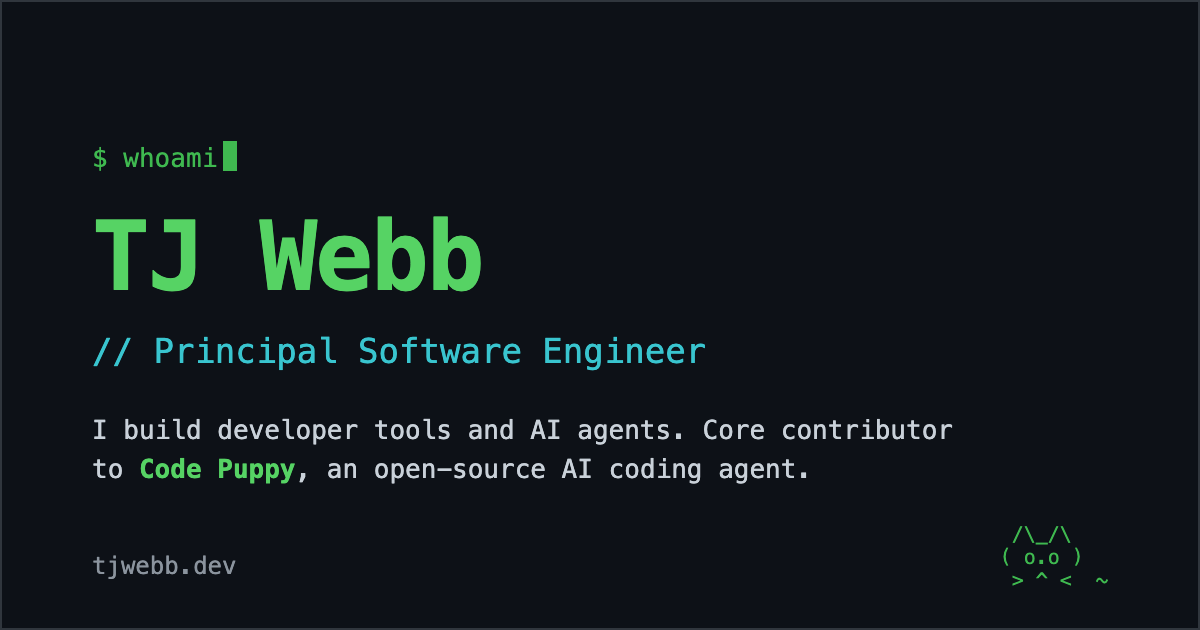
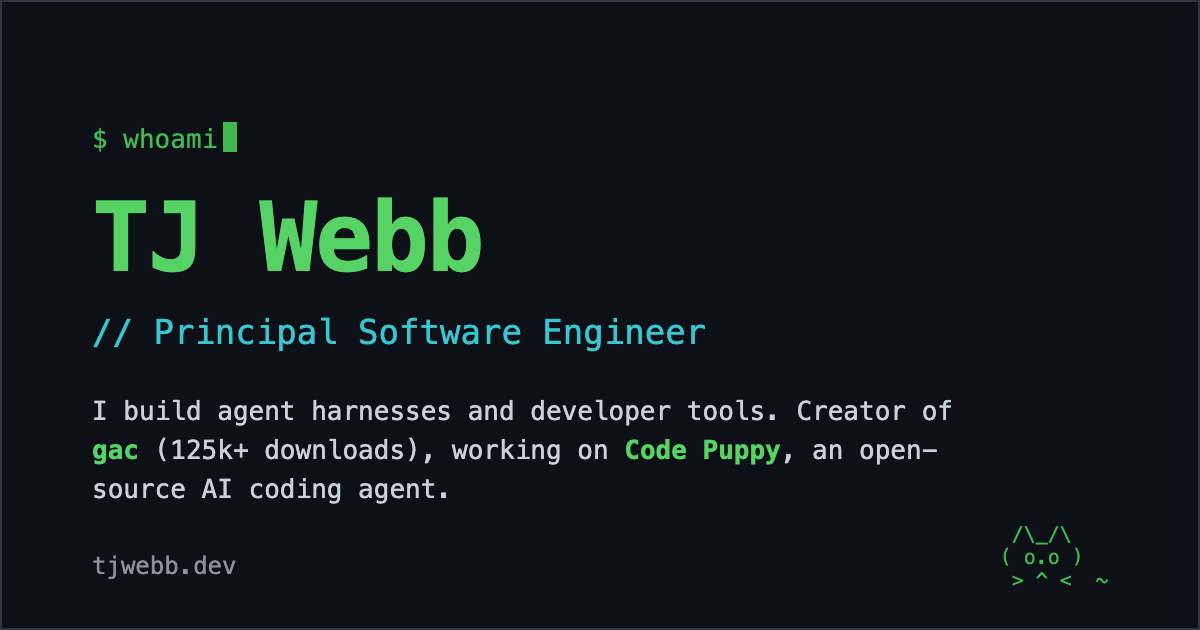
Update OG card to new positioning (agent harnesses, gac)

diff --git a/tools/og-card.html b/tools/og-card.html
@@ -29,7 +29,7 @@
   <div class="prompt">$ whoami<span class="cursor"></span></div>
   <h1>TJ Webb</h1>
   <div class="title">// Principal Software Engineer</div>
-  <p class="tagline">I build developer tools and AI agents. Core contributor to <strong>Code Puppy</strong>, an open-source AI coding agent.</p>
+  <p class="tagline">I build agent harnesses and developer tools. Creator of <strong>gac</strong> (125k+ downloads), working on <strong>Code Puppy</strong>, an open-source AI coding agent.</p>
   <div class="url">tjwebb.dev</div>
   <div class="cat"> /\_/\
 ( o.o )
